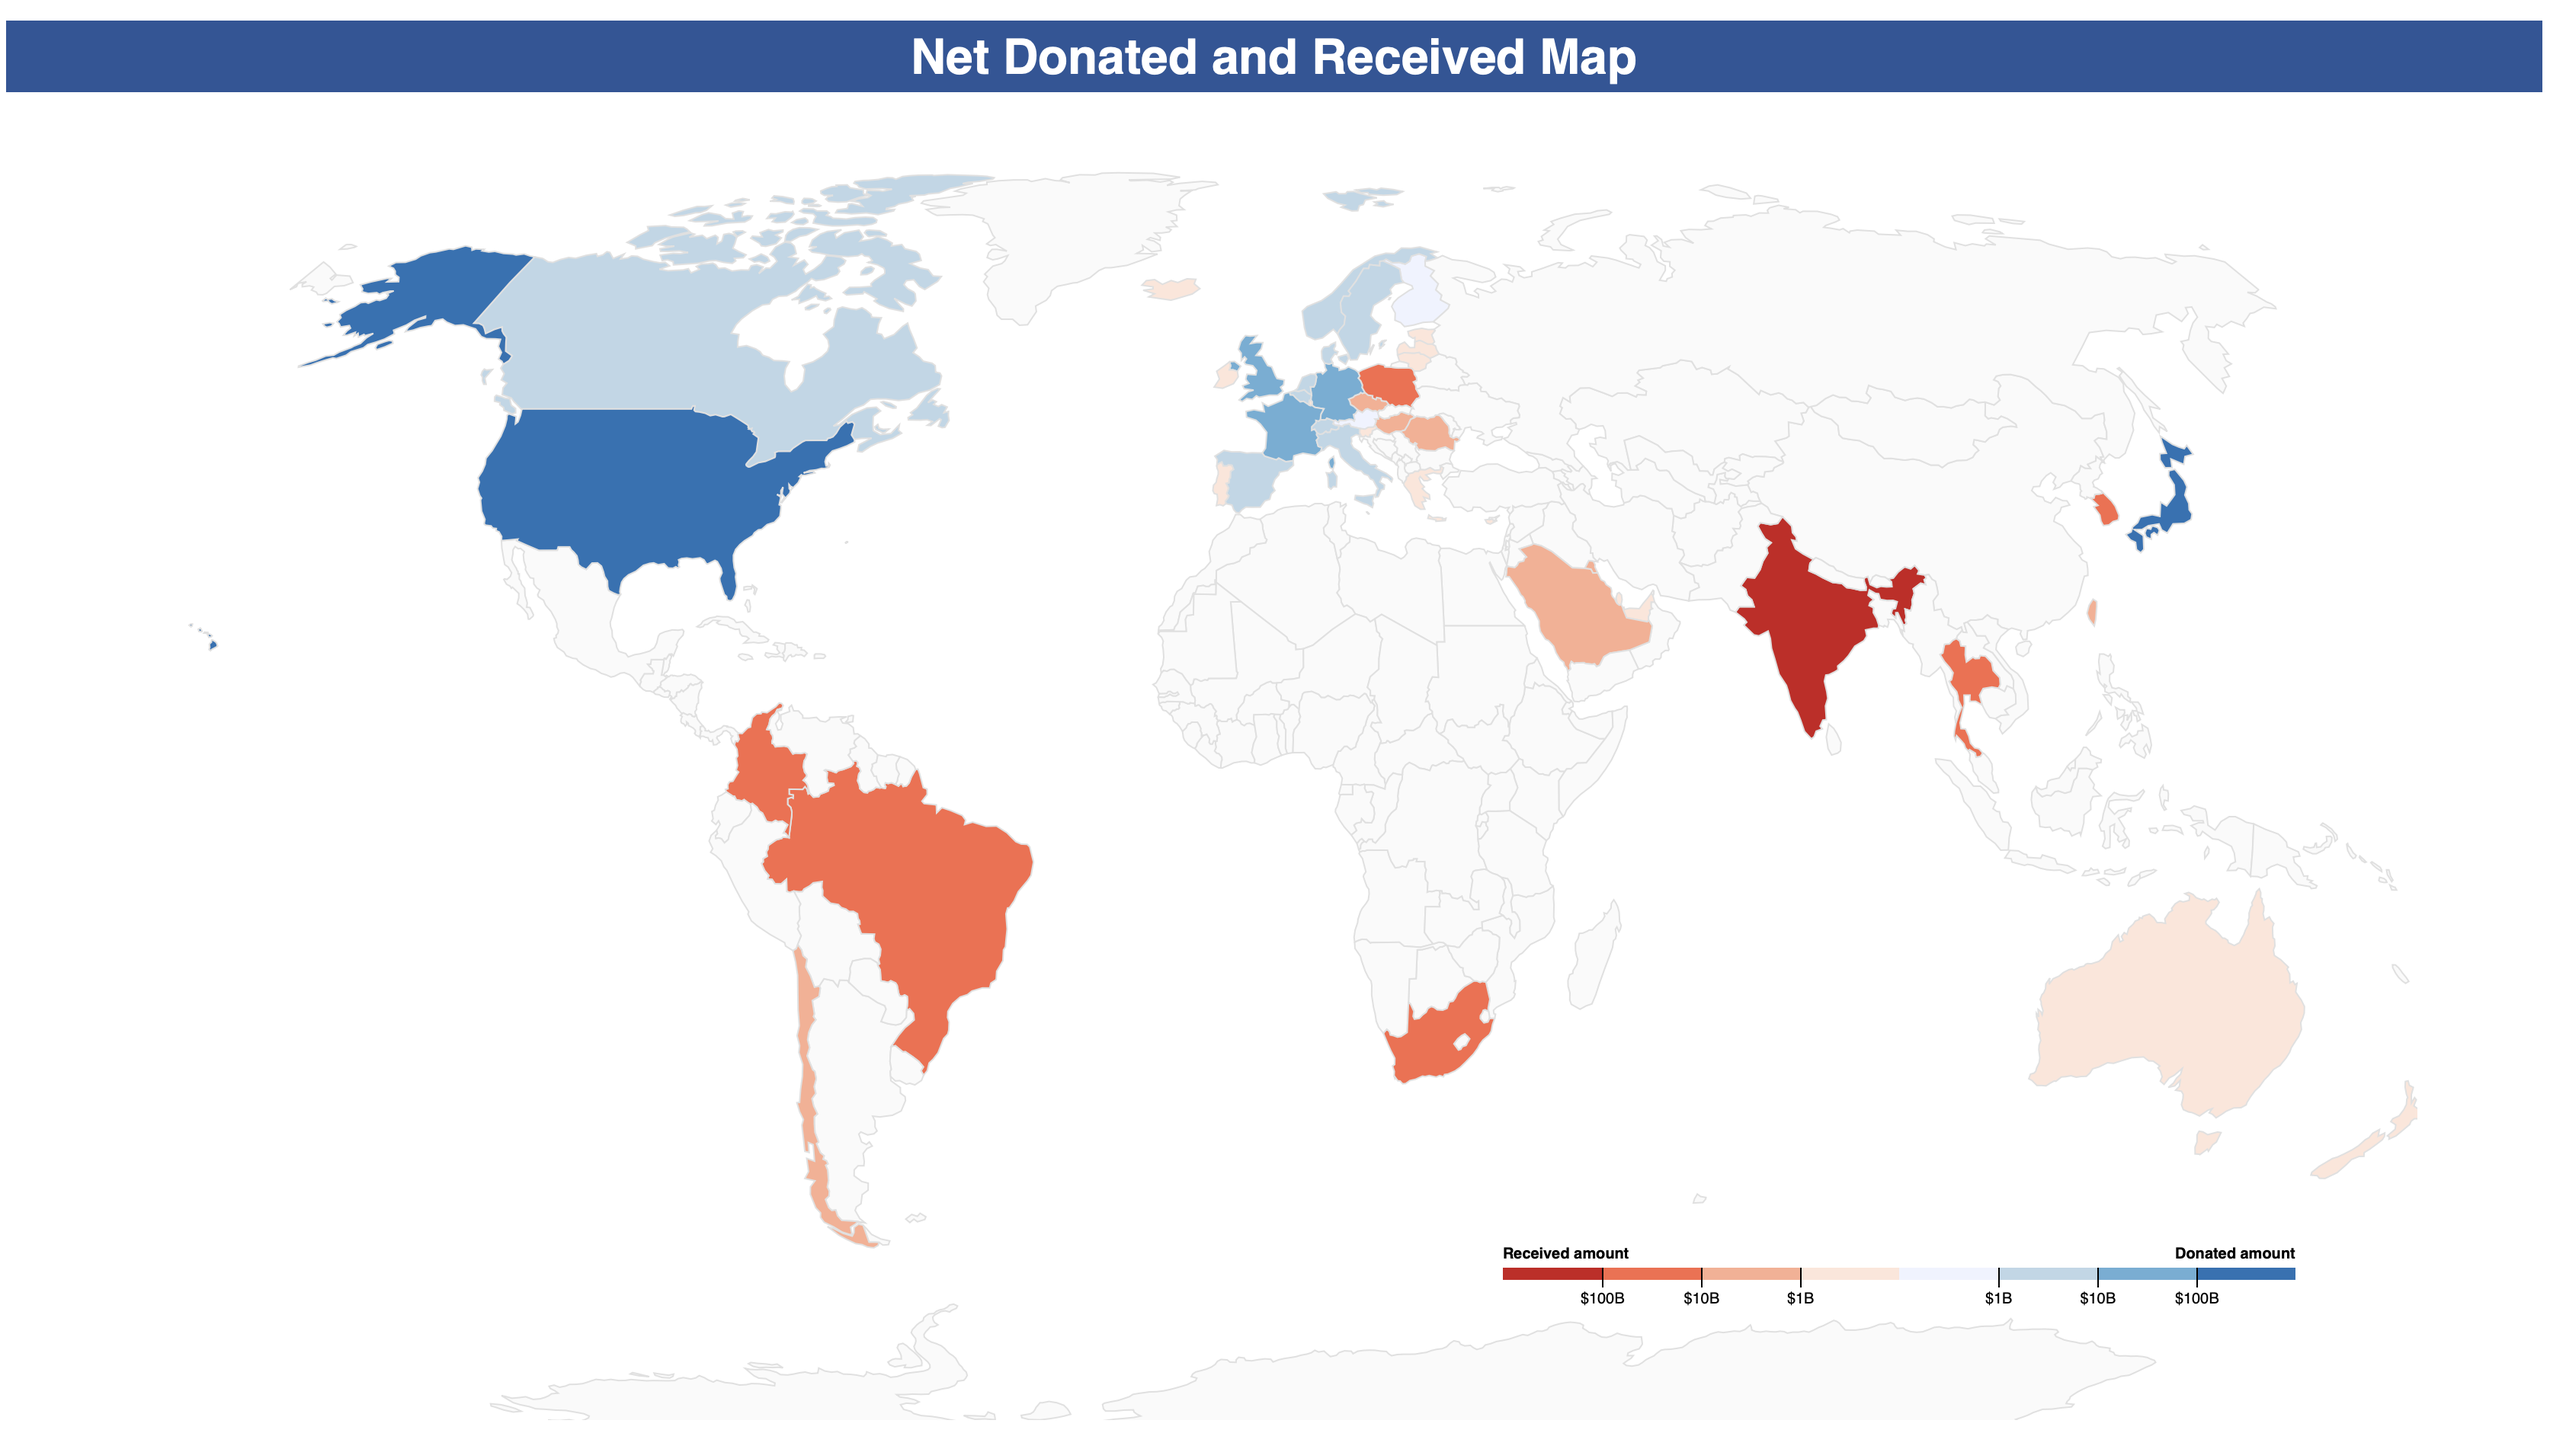
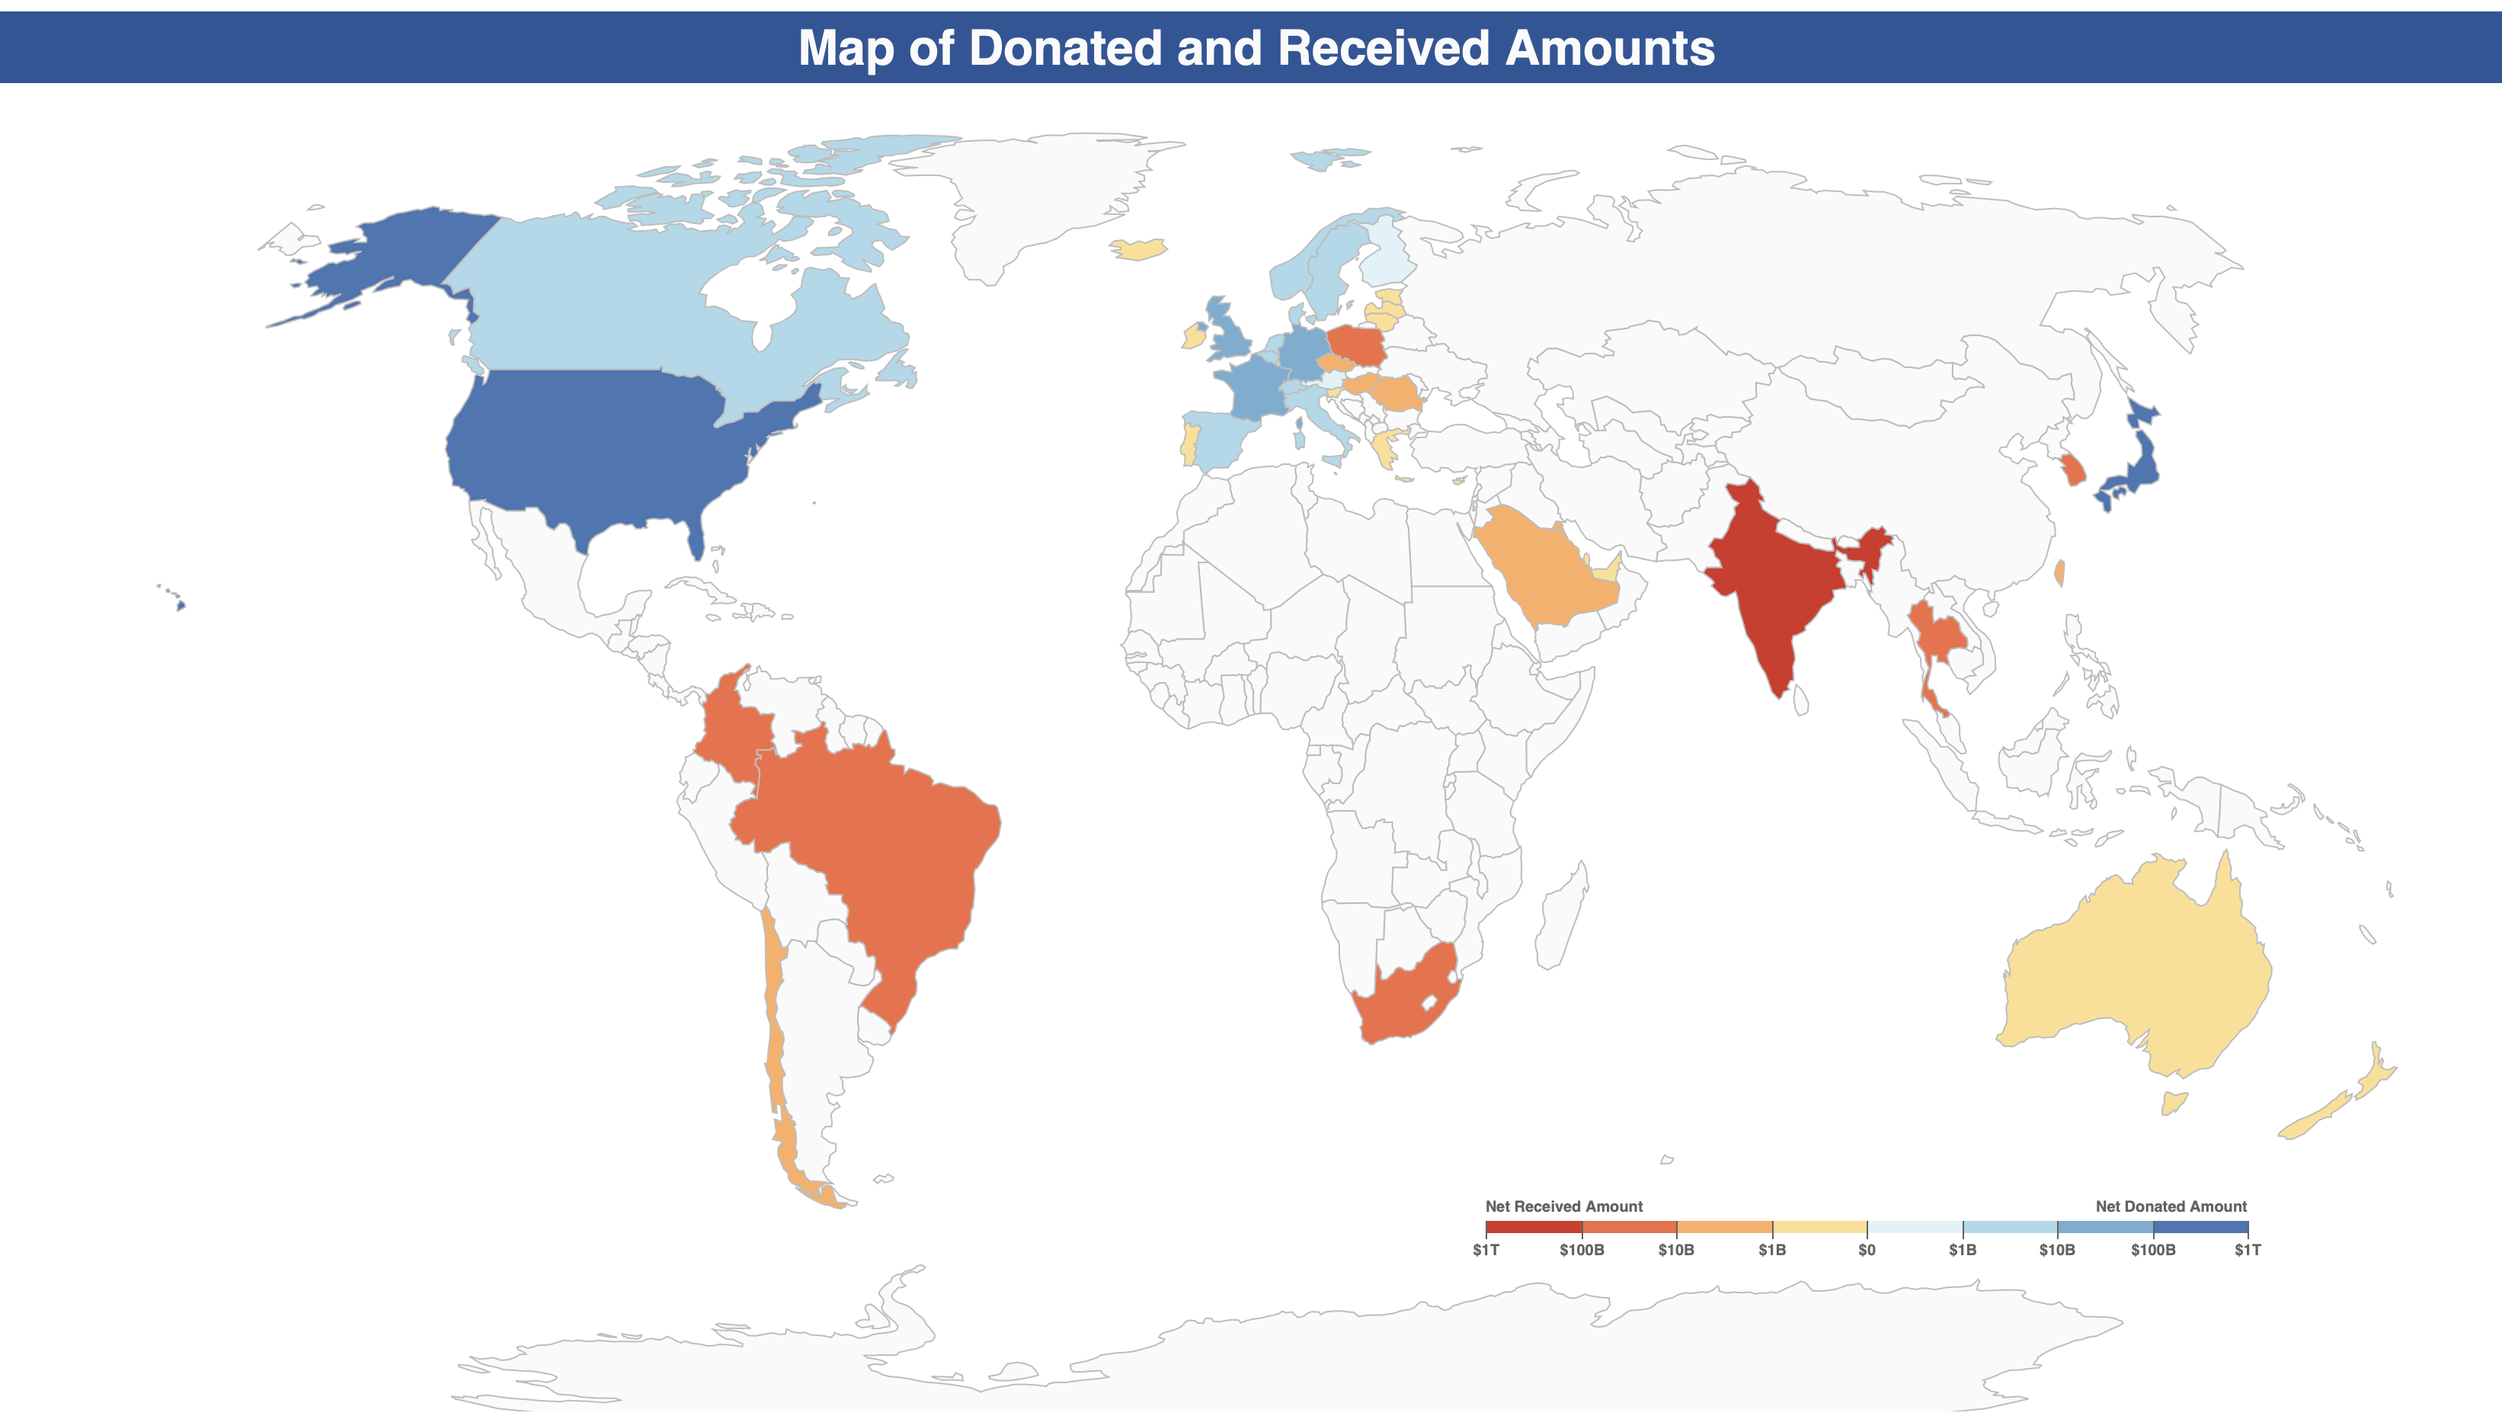
Update graph 2

diff --git a/mini-project-1/graph-2.html b/mini-project-1/graph-2.html
@@ -4,12 +4,12 @@
     <meta charset="UTF-8">
     <style>
       body {
-        font-family: Helvetica, Arial, sans-serif
+        font-family: Helvetica, Arial, sans-serif;
       }
 
       h1 {
         background-color: #2a5599;
-        color: white;
+        color: #fafafa;
         padding: 5px;
         text-align: center;
       }
@@ -22,21 +22,19 @@
 
       .legend {
         font-size: 12px;
+        color: #616161;
+        font-weight: bold;
       }
 
       .tick {
         font-size: 10px;
-      }
-
-      .grid {
-        stroke-opacity: 0.25;
       }
     </style>
     <script src="https://d3js.org/d3.v5.min.js"></script>
   </head>
 
   <body>
-    <h1>Net Donated and Received Map</h1>
+    <h1>Map of Donated and Received Amounts</h1>
     <div class="container">
       <svg id="countries-chart"></svg>
     </div>
@@ -56,18 +54,18 @@
       }
 
       function groupByCountry(aidData, geoJSON) {
-        let result_map = aidData.reduce((result, d) => {
+        let result = aidData.reduce((result, d) => {
           let currentDonor = result[d.donor] || {
             'country': d.donor,
             'donated_amount': 0,
             'received_amount': 0,
-            'geo': geoJSON.features.filter(f => f.properties.name == d.donor)[0]
+            'geo': geoJSON.features.find(f => f.properties.name == d.donor)
           }
           let currentRecipient = result[d.recipient] || {
             'country': d.recipient,
             'donated_amount': 0,
             'received_amount': 0,
-            'geo': geoJSON.features.filter(f => f.properties.name == d.recipient)[0]
+            'geo': geoJSON.features.find(f => f.properties.name == d.recipient)
           }
 
           currentDonor.donated_amount += +d.commitment_amount_usd_constant
@@ -79,20 +77,14 @@
           return result
         }, {})
 
-        store.countries_map = result_map
-
-        result_list = Object.keys(result_map).map(key => result_map[key])
-
-        store.countries_list = result_list
-
-        return result_list
+        return result
       }
 
-      function getCountriesChartConfig() {
+      function getMapConfig() {
         let width = 1500
         let height = 850
         let margin = {
-          top: 20,
+          top: 10,
           bottom: 10,
           left: 10,
           right: 10
@@ -101,141 +93,149 @@
         let bodyHeight = height - margin.top - margin.bottom
         let bodyWidth = width - margin.left - margin.right
 
+        let legendPosition = {
+          x: 900,
+          y: 725
+        }
+
         let container = d3.select('#countries-chart')
         container
           .attr('width', width)
           .attr('height', height)
 
-        return {width, height, margin, bodyHeight, bodyWidth, container}
+        return {width, height, margin, bodyHeight, bodyWidth, legendPosition, container}
       }
 
       function getMapProjection(config) {
-        let {width, height} = config
+        let {margin, bodyWidth, bodyHeight} = config
         let projection = d3.geoNaturalEarth1()
         projection
           .scale(300)
-          .translate([width/2, height/2 + 20])
+          .translate([bodyWidth/2, bodyHeight/2 + margin.top])
 
         store.mapProjection = projection
         return projection
       }
 
-      function getMapScales(countries) {
-        let maximumDonatedAmount = d3.max(countries, d => d.donated_amount)
-        let maximumReceivedAmount = d3.max(countries, d => d.received_amount)
-        let maximumAmount = d3.max([maximumDonatedAmount, maximumReceivedAmount])
+      function getChoroplethMapScales() {
+        let divergingDomain = [1e12, 100e9, 10e9, 1e9, 0, 1e9, 10e9, 100e9, 1e12]
+        let divergingRange = ['#d73027', '#f46d43', '#fdae61', '#fee090', '#e0f3f8','#abd9e9','#74add1','#4575b4']
 
-        let circleScale = d3.scaleLinear()
-          .range([0, 25])
-          .domain([0, maximumAmount])
+        let thresholds = divergingDomain.slice(1, Math.floor(divergingDomain.length/2)).reverse()
+        console.log(thresholds)
 
-        return {circleScale}
+        let donatedColorScale = d3.scaleThreshold()
+          .range(divergingRange.slice(Math.floor(divergingDomain.length/2)))
+          .domain(thresholds)
+
+        let receivedColorScale = d3.scaleThreshold()
+          .range(divergingRange.slice(0, Math.floor(divergingDomain.length/2)).reverse())
+          .domain(thresholds)
+
+        return {donatedColorScale, receivedColorScale, thresholds, divergingDomain, divergingRange}
       }
 
-      function drawDonationMap(geoJSON) {
-        let config = getCountriesChartConfig()
+      function drawMap(countries, geoJSON) {
+        let config = getMapConfig()
         let container = config.container
+        let {donatedColorScale, receivedColorScale} = getChoroplethMapScales()
         let projection = getMapProjection(config)
         let path = d3.geoPath()
           .projection(projection)
 
-        let thresholds = [1e9, 10e9, 100e9]
-        let donatedColorScale = d3.scaleThreshold()
-          .range(d3.schemeBlues[thresholds.length + 1])
-          .domain(thresholds)
-        let receivedColorScale = d3.scaleThreshold()
-          .range(d3.schemeReds[thresholds.length + 1])
-          .domain(thresholds)
+        let strokeColor = '#bdbdbd'
+        let countryDefaultColor = '#fafafa'
 
         container.selectAll('path')
           .data(geoJSON.features)
           .enter()
           .append('path')
           .attr('d', d => path(d))
-          .attr('stroke', '#e0e0e0')
+          .attr('stroke', strokeColor)
           .attr('fill', function(d) {
-            country = store.countries_map[d.properties.name]
+            country = countries[d.properties.name]
             if (country) {
               let netValue = country.donated_amount - country.received_amount
-              let color = (netValue > 0) ? donatedColorScale(netValue) : receivedColorScale(-netValue)
-
-              if (d.properties.name == "Australia") {
-                console.log(netValue, country.donated_amount, country.received_amount)
-              }
-              return color
+              if (netValue >= 0)
+                return donatedColorScale(netValue)
+              else if (netValue < 0)
+                return receivedColorScale(-netValue)
             } else {
-              return '#fafafa'
+              return countryDefaultColor
             }
           })
+      }
 
-        // Legend
-        const width = 260
-        const length = donatedColorScale.range().length
+      function drawLegend() {
+        let {container, legendPosition} = getMapConfig()
+        let {donatedColorScale, receivedColorScale, divergingDomain, divergingRange} = getChoroplethMapScales()
+
+        const width = 500
+        const rectHeight = 8
+        const titlePadding = 6
+        const tickSize = 12
 
         const x = d3.scaleLinear()
-            .domain([1, length - 1])
-            .rangeRound([width / length, width * (length - 1) / length])
+          .domain([0, divergingDomain.length-1])
+          .rangeRound([0, width])
 
         let legend = container
           .append('g')
           .attr('class', 'legend')
-          .attr('transform', `translate(900, 750)`)
+          .attr('transform', `translate(${legendPosition.x}, ${legendPosition.y})`)
 
-        let donated = legend.append('g')
-          .attr('transform', `translate(${width}, 0)`)
+        let colorLegend = legend.append('g')
 
-        donated.selectAll('rect')
-          .data(donatedColorScale.range())
+        colorLegend.selectAll('rect')
+          .data(divergingRange)
           .join('rect')
-            .attr('height', 8)
+            .attr('height', rectHeight)
             .attr('x', (d, i) => x(i))
             .attr('width', (d, i) => x(i + 1) - x(i))
             .attr('fill', d => d)
 
-        donated.append('text')
-            .attr('y', -6)
-            .attr('x', width)
-            .attr('fill', 'currentColor')
-            .attr('text-anchor', 'end')
-            .attr('font-weight', 'bold')
-            .text('Donated amount')
+        colorLegend.append('text')
+          .attr('class', 'title-left')
+          .attr('y', -titlePadding)
+          .attr('text-anchor', 'start')
+          .attr('fill', 'currentColor')
+          .text('Net Received Amount')
 
-        donated.call(d3.axisBottom(x)
-            .tickSize(13)
-            .tickFormat(i => `$${donatedColorScale.domain()[i - 1]/1e9}B`)
-            .tickValues(d3.range(1, length)))
-          .select('.domain')
-            .remove()
+        colorLegend.append('text')
+          .attr('class', 'title-right')
+          .attr('x', width)
+          .attr('y', -titlePadding)
+          .attr('text-anchor', 'end')
+          .attr('fill', 'currentColor')
+          .text('Net Donated Amount')
 
-        let received = legend.append('g')
+        colorLegend.call(d3.axisBottom(x)
+            .tickFormat(function(i) {
+              let value = divergingDomain[i]
+              let formattedValue
 
-        received.selectAll('rect')
-          .data(receivedColorScale.range().reverse())
-          .join('rect')
-            .attr('height', 8)
-            .attr('x', (d, i) => x(i))
-            .attr('width', (d, i) => x(i + 1) - x(i))
-            .attr('fill', d => d)
+              if (value >= 1e12)
+                formattedValue = `$${value/1e12}T`
+              else if (value >= 1e9)
+                formattedValue = `$${value/1e9}B`
+              else if (value >= 1e6)
+                formattedValue = `$${value/1e6}M`
+              else if (value >= 1e3)
+                formattedValue = `$${value/1e3}K`
+              else
+                formattedValue = `$${value}`
 
-        received.append('text')
-            .attr('y', -6)
-            .attr('fill', 'currentColor')
-            .attr('text-anchor', 'start')
-            .attr('font-weight', 'bold')
-            .text('Received amount')
-
-        received.call(d3.axisBottom(x)
-            .tickSize(13)
-            .tickFormat(i => `$${receivedColorScale.domain().reverse()[i - 1]/1e9}B`)
-            .tickValues(d3.range(1, length)))
+              return formattedValue
+            })
+            .tickSize(tickSize))
           .select('.domain')
             .remove()
       }
 
       function showData() {
-        let countries_list = groupByCountry(store.aiddata, store.geoJSON)
-        console.log(store)
-        drawDonationMap(store.geoJSON)
+        let countries = groupByCountry(store.aiddata, store.geoJSON)
+        drawMap(countries, store.geoJSON)
+        drawLegend()
       }
 
       loadData().then(showData)
